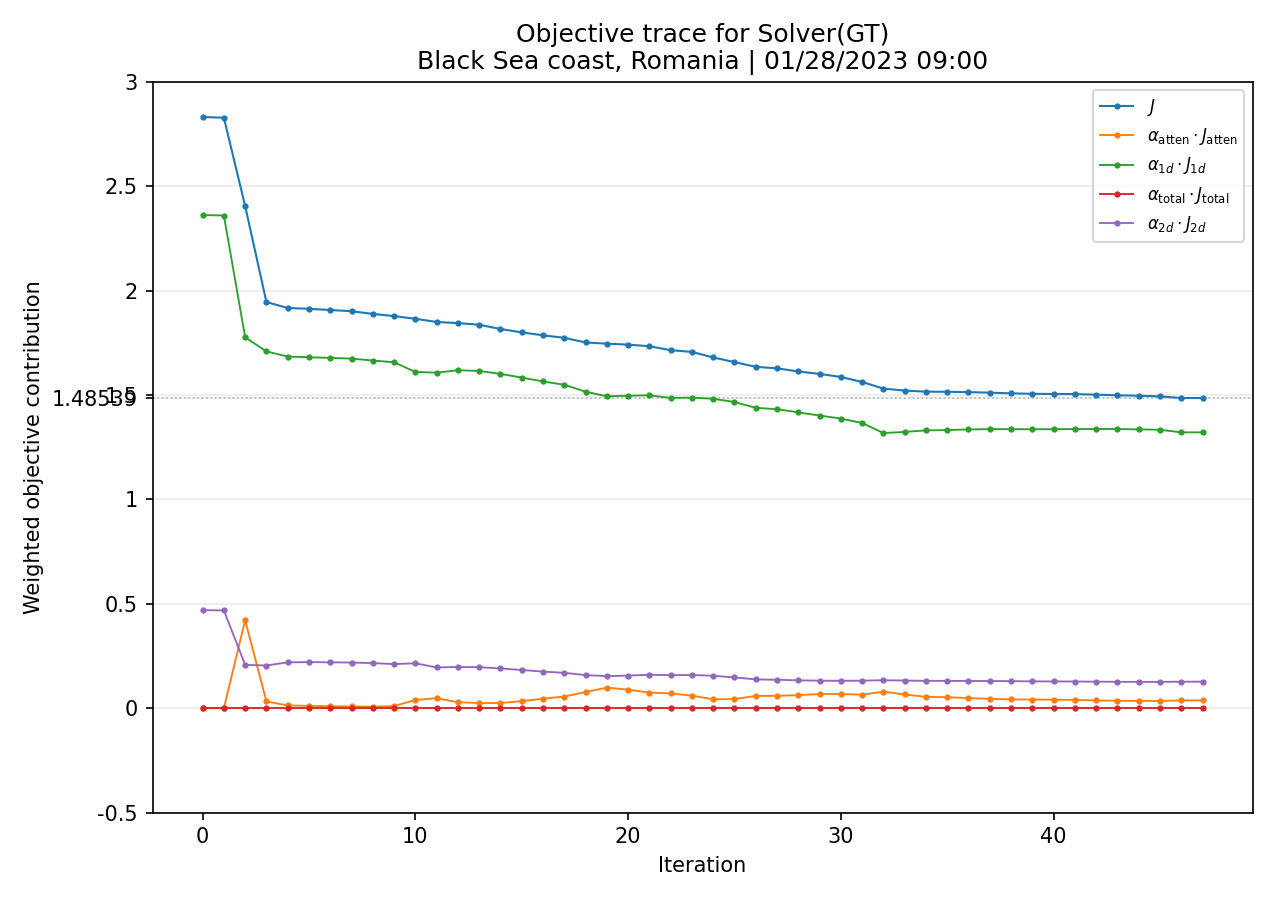
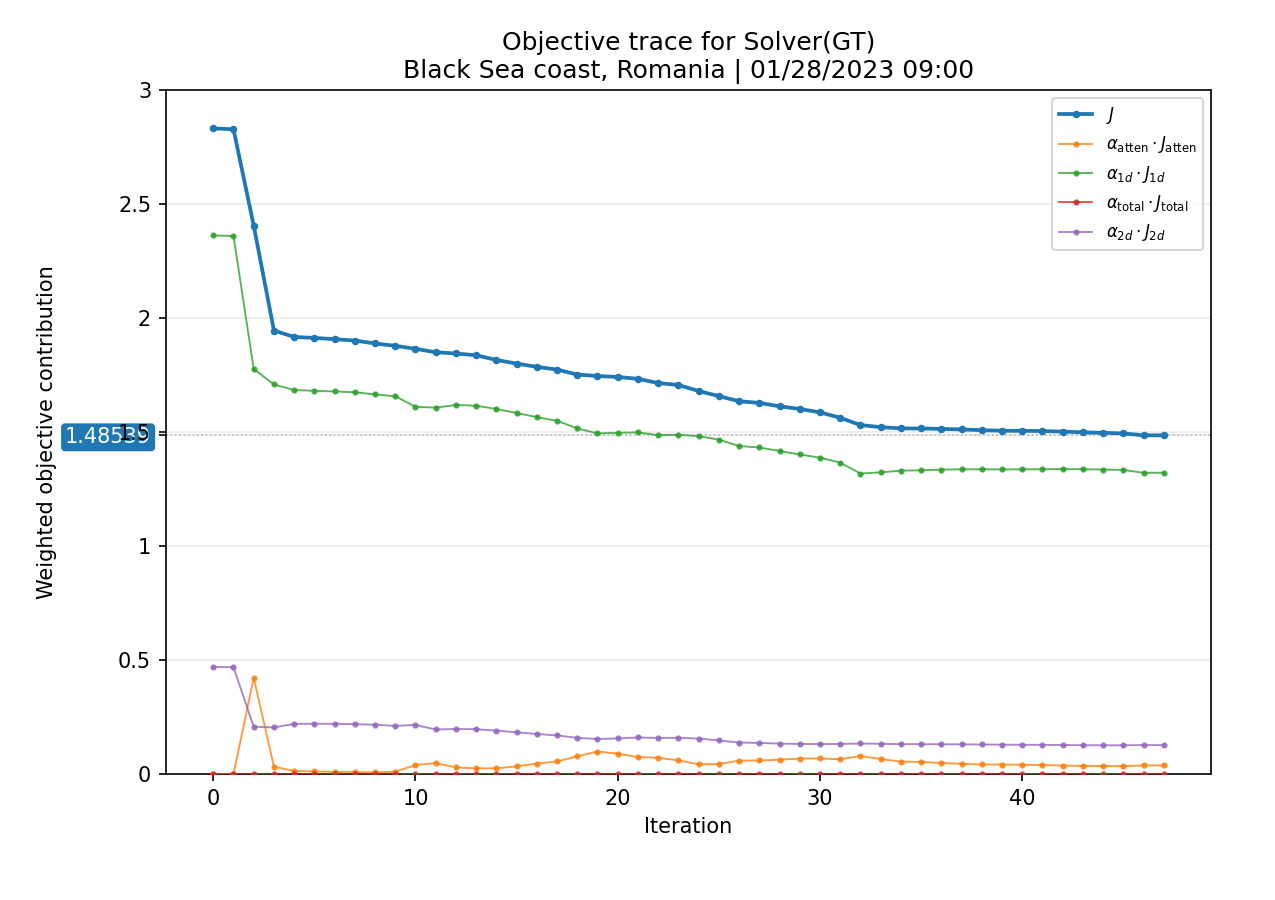
Update case study objective traces

diff --git a/Compute-Link-Attenuations/render_analysis_report.py b/Compute-Link-Attenuations/render_analysis_report.py
@@ -1178,6 +1178,32 @@ def plot_j_behavior(
         arr = np.asarray(vals, dtype=np.float64)
         return arr[np.isfinite(arr)]
 
+    series_colors: Dict[str, str] = {
+        r"$J$": "#1f77b4",
+        r"$\alpha_{\mathrm{atten}} \cdot J_{\mathrm{atten}}$": "#ff7f0e",
+        r"$\alpha_{1d} \cdot J_{1d}$": "#2ca02c",
+        r"$\alpha_{\mathrm{total}} \cdot J_{\mathrm{total}}$": "#d62728",
+        r"$\alpha_{2d} \cdot J_{2d}$": "#9467bd",
+    }
+
+    def series_style(label: str, linewidth: float, color: Optional[str] = None) -> Dict[str, Any]:
+        base_color = series_colors.get(label, color)
+        if label == r"$J$":
+            return {
+                "color": base_color or "#1f77b4",
+                "linewidth": max(1.8, linewidth + 0.6),
+                "markersize": 2.6,
+                "alpha": 1.0,
+                "zorder": 5,
+            }
+        return {
+            "color": base_color,
+            "linewidth": linewidth,
+            "markersize": 2.0,
+            "alpha": 0.8,
+            "zorder": 3,
+        }
+
     def build_series(rows: Sequence[Dict[str, Any]]) -> Tuple[List[Tuple[str, List[float], float]], List[float]]:
         j_series: List[Tuple[str, List[float], float]] = [
             (r"$J$", series_from_rows(rows, "J_weighted_sum"), 1.0),
@@ -1199,7 +1225,8 @@ def plot_j_behavior(
                     arr = np.where(arr <= cutoff, arr, np.nan)
                 elif upper_only:
                     arr = np.where(arr > cutoff, arr, np.nan)
-            ax.plot(xs_local, arr, marker="o", markersize=2.0, linewidth=linewidth, label=(label if show_legend else None))
+            style = series_style(label, linewidth)
+            ax.plot(xs_local, arr, marker="o", label=(label if show_legend else None), **style)
 
     def add_final_weighted_sum_marker(ax: Any, final_value: float) -> None:
         ymin, ymax = ax.get_ylim()
@@ -1219,6 +1246,20 @@ def plot_j_behavior(
             else:
                 labels.append(f"{tick:g}")
         ax.set_yticklabels(labels)
+        for tick_value, tick_label in zip(deduped, ax.get_yticklabels()):
+            if abs(tick_value - final_value) <= 1e-9:
+                tick_label.set_bbox(
+                    {
+                        "facecolor": "#1f77b4",
+                        "edgecolor": "#1f77b4",
+                        "boxstyle": "round,pad=0.15",
+                        "linewidth": 0.8,
+                    }
+                )
+                tick_label.set_color("white")
+            else:
+                tick_label.set_bbox(None)
+                tick_label.set_color("black")
         ax.axhline(final_value, color="#666666", linestyle=":", linewidth=0.8, alpha=0.45, zorder=0)
 
     def plot_single_panel(rows: Sequence[Dict[str, Any]], *, fig_title: str) -> None:
@@ -1268,7 +1309,8 @@ def plot_j_behavior(
         else:
             fig, ax = plt.subplots(figsize=(8.5, 6.0), dpi=dpi)
             draw_series(ax, xs_local, j_series)
-            ax.set_title(fig_title)
+            ax.set_ylim(bottom=0.0)
+            ax.set_title(fig_title, pad=6)
             ax.legend(loc="best", fontsize=8)
             finite_weighted_sum = finite_values(weighted_sum)
             if finite_weighted_sum.size:
@@ -1279,7 +1321,7 @@ def plot_j_behavior(
         ax.set_ylabel("Weighted objective contribution")
         for axis in axes:
             axis.grid(axis="y", alpha=0.25)
-        fig.tight_layout()
+        fig.subplots_adjust(left=0.13, right=0.95, bottom=0.14, top=0.90)
         fig.savefig(out_png, dpi=dpi)
         plt.close(fig)
 
@@ -1308,14 +1350,14 @@ def plot_j_behavior(
     fig, axes = plt.subplots(n_stages, 1, figsize=(9.0, fig_h), dpi=dpi, sharex=False)
     if n_stages == 1:
         axes = [axes]
-    color_cycle = plt.rcParams["axes.prop_cycle"].by_key().get("color", [])
     for ax, (stage_id, beta, rows) in zip(axes, stage_rows):
         xs_local = list(range(len(rows)))
         j_series, weighted_sum = build_series(rows)
         for idx, (label, vals, linewidth) in enumerate(j_series):
-            color = color_cycle[idx % max(1, len(color_cycle))] if color_cycle else None
             arr = np.asarray(vals, dtype=np.float64)
-            ax.plot(xs_local, arr, marker="o", markersize=2.0, linewidth=linewidth, label=label, color=color)
+            style = series_style(label, linewidth)
+            ax.plot(xs_local, arr, marker="o", label=label, **style)
+        ax.set_ylim(bottom=0.0)
         finite_weighted_sum = finite_values(weighted_sum)
         if finite_weighted_sum.size:
             add_final_weighted_sum_marker(ax, float(finite_weighted_sum[-1]))
